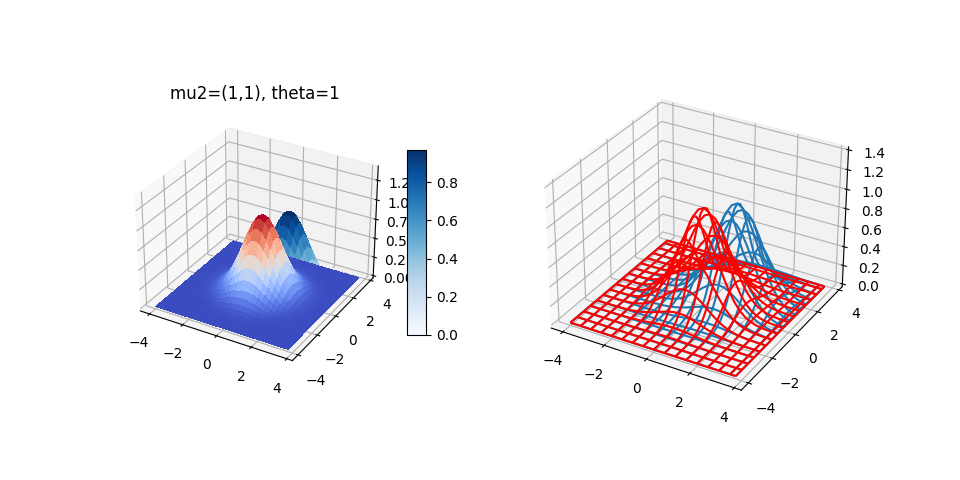
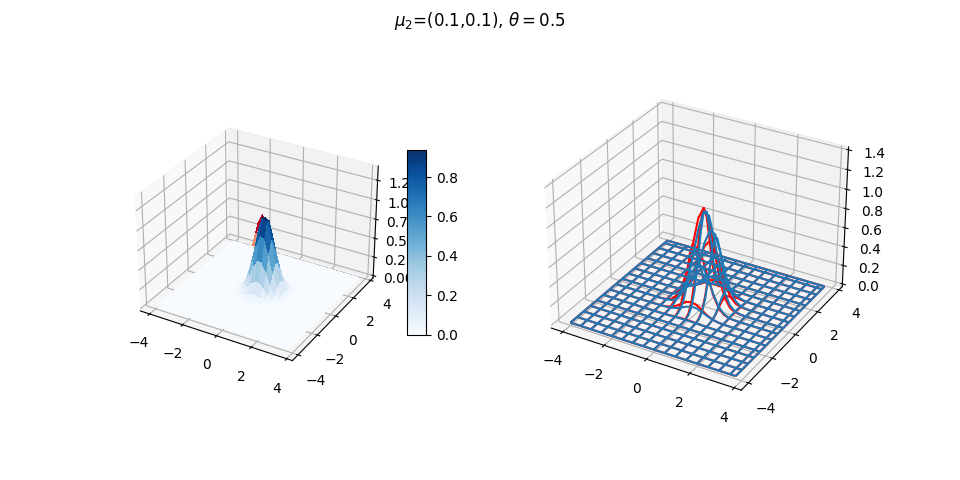
upload pictures for paper

diff --git a/simfun.py b/simfun.py
@@ -26,6 +26,8 @@ def diff_mu1_mu2(mu1, mu2, theta=1):
 
 def show_exp(mu2=[1, 1], x_low=-1, x_up=1, y_low=-1, y_up=1, theta=1, x_nums=100, y_nums=100):
     fig = plt.figure(figsize=plt.figaspect(0.5))
+    fig.suptitle(r"$\mu_2$"+"=("+str(mu2[0]) +","+str(mu2[1])+"), "+r"$\theta=$"+str(theta))
+
     ax = fig.add_subplot(1, 2, 1, projection='3d')
 
     X = np.arange(x_low, x_up, 0.25)
@@ -41,11 +43,9 @@ def show_exp(mu2=[1, 1], x_low=-1, x_up=1, y_low=-1, y_up=1, theta=1, x_nums=100
     Z2 = exp2
 
     surf1 = ax.plot_surface(X, Y, Z1, rstride=1, cstride=1, cmap=cm.coolwarm,
-                           linewidth=0, antialiased=False)
+                        linewidth=0, antialiased=False)
     surf2 = ax.plot_surface(X, Y, Z2, rstride=1, cstride=1, cmap=cm.Blues,
-                       linewidth=0, antialiased=False)
-
-    ax.set_title("mu2=("+str(mu2[0]) +","+str(mu2[1])+"), theta="+str(theta))
+                        linewidth=0, antialiased=False)
 
     ax.set_zlim(0, 1.4)
     fig.colorbar(surf2, shrink=0.5, aspect=10)
@@ -317,7 +317,7 @@ if __name__ == "__main__":
     # Exponential family
     plot_rkhs_norm()
     size = 4
-    show_exp(mu2=[1, 1], theta=1, x_nums=200, y_nums=200, x_low=-size,x_up=size,y_low=-size, y_up=size)
+    show_exp(mu2=[0.1, 0.1], theta=0.5, x_nums=200, y_nums=200, x_low=-size,x_up=size,y_low=-size, y_up=size)
     
     print(diff_mu1_mu2(mu1=[0, 0], mu2=[0.707, 0.707], theta=1.414))
     # Branin
@@ -346,3 +346,4 @@ if __name__ == "__main__":
     mu1 = [0]; mu2 = [5]; mu3 = [10]
     theta1 = 1; theta2 = 1; theta3 = 1
     show_triple_exp_mu(lambda1, lambda2, lambda3, mu1, mu2, mu3, theta1, theta2, theta3, x_low=-5, x_high=15)
+

diff --git a/analyze_results.py b/analyze_results.py
@@ -146,6 +146,7 @@ def run_statistics(file_lsts, out_dir, header_name="response"):
                 fout.writelines(line)
 
         fname = os.path.basename(file_lst_k[0])
+
         dct_mean_std[fname] = [(m, s) for m, s in zip(mean_lst, std_lst)]
         dct_medium_perc[fname] = [(p25, p50, p75) for p25, p50, p75 in zip(per25_lst, per50_lst, per75_lst)]
 
